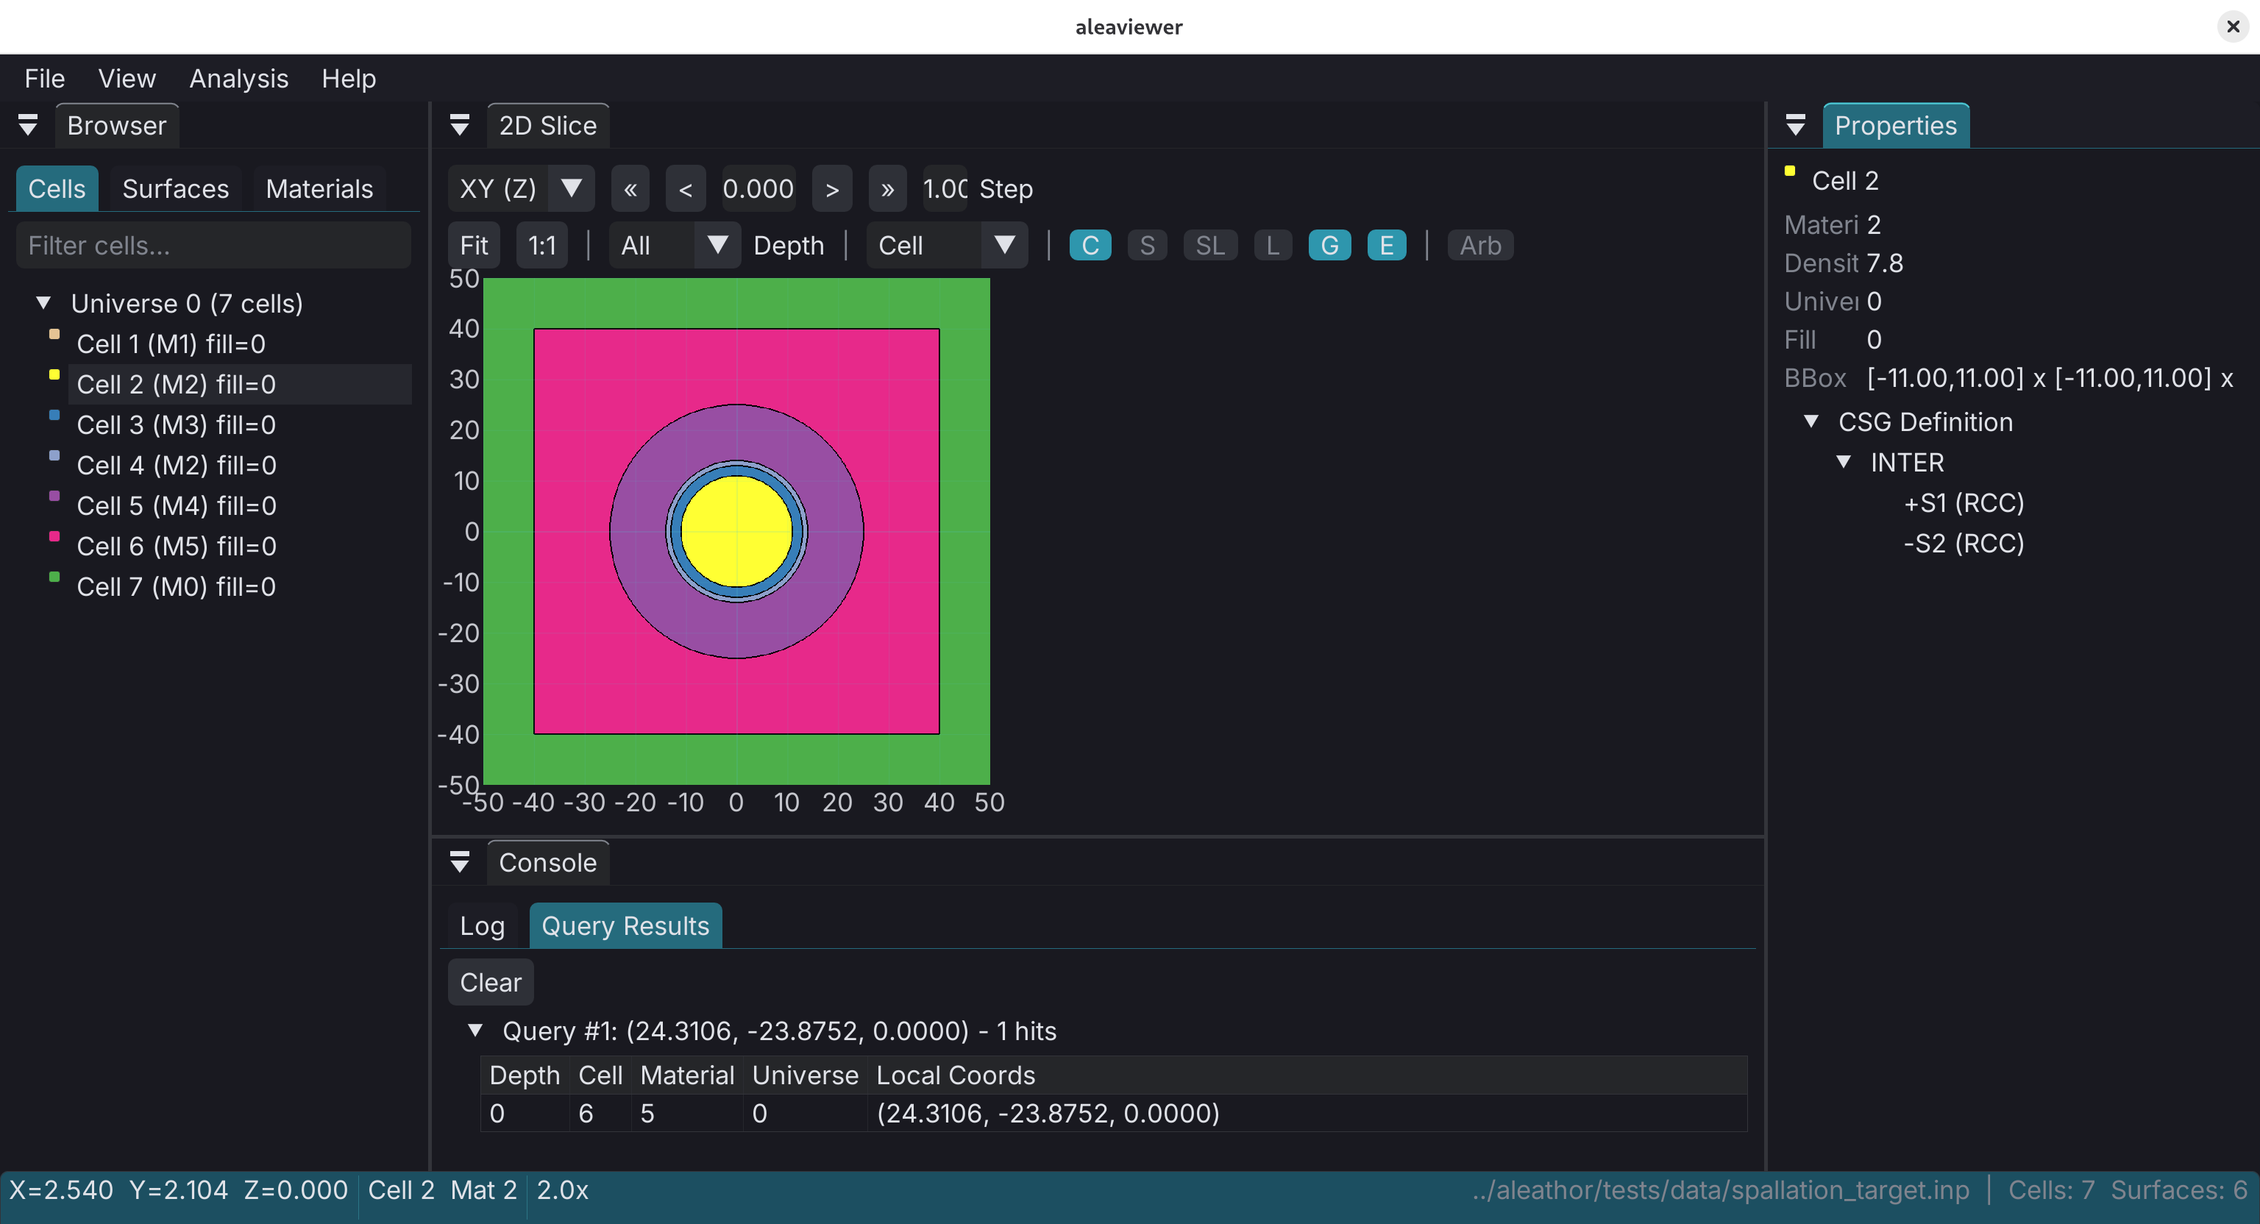
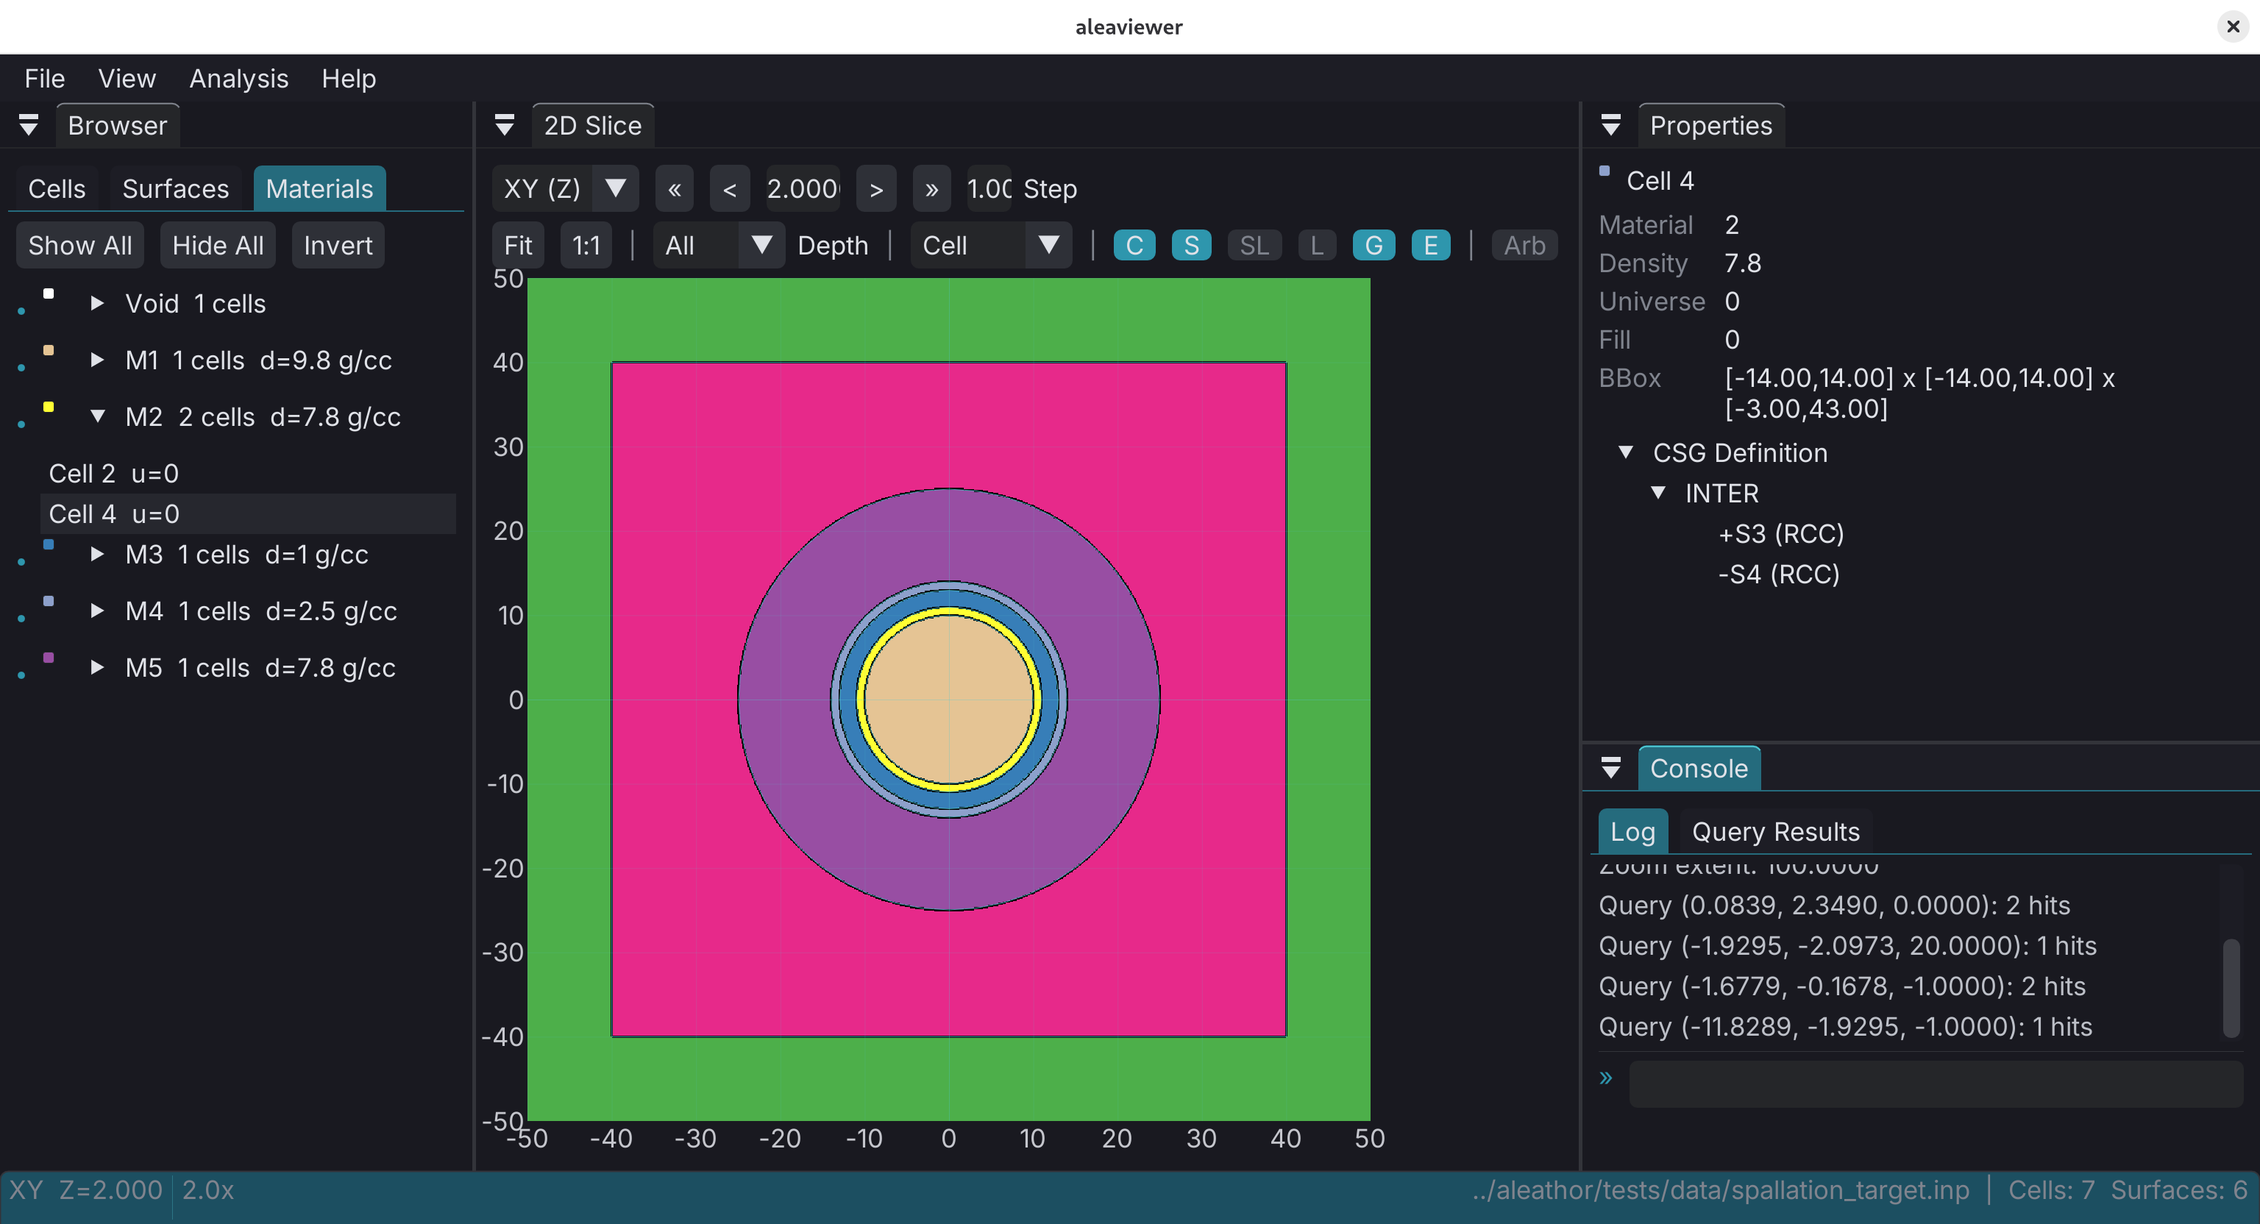
docking positions adjusted

diff --git a/src/panel_properties.cpp b/src/panel_properties.cpp
@@ -118,37 +118,38 @@ static void render_cell_properties(AppState& app) {
 
     // Properties table
     if (ImGui::BeginTable("##props", 2, ImGuiTableFlags_SizingFixedFit)) {
-        ImGui::TableSetupColumn("Key", ImGuiTableColumnFlags_WidthFixed, 90);
-        ImGui::TableSetupColumn("Val");
+        float key_w = ImGui::CalcTextSize("Material  ").x;
+        ImGui::TableSetupColumn("Key", ImGuiTableColumnFlags_WidthFixed, key_w);
+        ImGui::TableSetupColumn("Val", ImGuiTableColumnFlags_WidthStretch);
 
         ImGui::TableNextRow(); ImGui::TableNextColumn();
         ImGui::TextDisabled("Material"); ImGui::TableNextColumn();
-        ImGui::Text("%d", info.material_id);
+        ImGui::TextWrapped("%d", info.material_id);
 
         ImGui::TableNextRow(); ImGui::TableNextColumn();
         ImGui::TextDisabled("Density"); ImGui::TableNextColumn();
-        ImGui::Text("%.6g", info.density);
+        ImGui::TextWrapped("%.6g", info.density);
 
         ImGui::TableNextRow(); ImGui::TableNextColumn();
         ImGui::TextDisabled("Universe"); ImGui::TableNextColumn();
-        ImGui::Text("%d", info.universe_id);
+        ImGui::TextWrapped("%d", info.universe_id);
 
         if (info.fill_universe >= 0) {
             ImGui::TableNextRow(); ImGui::TableNextColumn();
             ImGui::TextDisabled("Fill"); ImGui::TableNextColumn();
-            ImGui::Text("%d", info.fill_universe);
+            ImGui::TextWrapped("%d", info.fill_universe);
         }
 
         if (info.lat_type > 0) {
             ImGui::TableNextRow(); ImGui::TableNextColumn();
             ImGui::TextDisabled("Lattice"); ImGui::TableNextColumn();
-            ImGui::Text("type=%d  pitch=[%.3f, %.3f, %.3f]",
+            ImGui::TextWrapped("type=%d  pitch=[%.3f, %.3f, %.3f]",
                         info.lat_type, info.lat_pitch[0], info.lat_pitch[1], info.lat_pitch[2]);
         }
 
         ImGui::TableNextRow(); ImGui::TableNextColumn();
         ImGui::TextDisabled("BBox"); ImGui::TableNextColumn();
-        ImGui::Text("[%.2f,%.2f] x [%.2f,%.2f] x [%.2f,%.2f]",
+        ImGui::TextWrapped("[%.2f,%.2f] x [%.2f,%.2f] x [%.2f,%.2f]",
                     info.bbox.min_x, info.bbox.max_x,
                     info.bbox.min_y, info.bbox.max_y,
                     info.bbox.min_z, info.bbox.max_z);
@@ -185,17 +186,18 @@ static void render_surface_properties(AppState& app) {
     ImGui::Text("Surface %d", sid);
 
     if (ImGui::BeginTable("##sprops", 2, ImGuiTableFlags_SizingFixedFit)) {
-        ImGui::TableSetupColumn("Key", ImGuiTableColumnFlags_WidthFixed, 90);
-        ImGui::TableSetupColumn("Val");
+        float key_w = ImGui::CalcTextSize("Material  ").x;
+        ImGui::TableSetupColumn("Key", ImGuiTableColumnFlags_WidthFixed, key_w);
+        ImGui::TableSetupColumn("Val", ImGuiTableColumnFlags_WidthStretch);
 
         ImGui::TableNextRow(); ImGui::TableNextColumn();
         ImGui::TextDisabled("Type"); ImGui::TableNextColumn();
-        ImGui::Text("%s", prim_type_name(ptype));
+        ImGui::TextWrapped("%s", prim_type_name(ptype));
 
         ImGui::TableNextRow(); ImGui::TableNextColumn();
         ImGui::TextDisabled("Boundary"); ImGui::TableNextColumn();
         const char* bnames[] = {"Transmissive", "Reflective", "White", "Periodic", "Vacuum"};
-        ImGui::Text("%s", bnames[btype < 5 ? btype : 0]);
+        ImGui::TextWrapped("%s", bnames[btype < 5 ? btype : 0]);
 
         // Show primitive data
         alea_primitive_data_t pdata;
@@ -204,73 +206,73 @@ static void render_surface_properties(AppState& app) {
                 case ALEA_PRIMITIVE_PLANE:
                     ImGui::TableNextRow(); ImGui::TableNextColumn();
                     ImGui::TextDisabled("Coeffs"); ImGui::TableNextColumn();
-                    ImGui::Text("%.6g %.6g %.6g %.6g",
+                    ImGui::TextWrapped("%.6g %.6g %.6g %.6g",
                                 pdata.plane.a, pdata.plane.b, pdata.plane.c, pdata.plane.d);
                     break;
                 case ALEA_PRIMITIVE_SPHERE:
                     ImGui::TableNextRow(); ImGui::TableNextColumn();
                     ImGui::TextDisabled("Center"); ImGui::TableNextColumn();
-                    ImGui::Text("(%.4g, %.4g, %.4g)",
+                    ImGui::TextWrapped("(%.4g, %.4g, %.4g)",
                                 pdata.sphere.center_x, pdata.sphere.center_y, pdata.sphere.center_z);
                     ImGui::TableNextRow(); ImGui::TableNextColumn();
                     ImGui::TextDisabled("Radius"); ImGui::TableNextColumn();
-                    ImGui::Text("%.6g", pdata.sphere.radius);
+                    ImGui::TextWrapped("%.6g", pdata.sphere.radius);
                     break;
                 case ALEA_PRIMITIVE_CYLINDER_Z:
                     ImGui::TableNextRow(); ImGui::TableNextColumn();
                     ImGui::TextDisabled("Center"); ImGui::TableNextColumn();
-                    ImGui::Text("(%.4g, %.4g)", pdata.cyl_z.center_x, pdata.cyl_z.center_y);
+                    ImGui::TextWrapped("(%.4g, %.4g)", pdata.cyl_z.center_x, pdata.cyl_z.center_y);
                     ImGui::TableNextRow(); ImGui::TableNextColumn();
                     ImGui::TextDisabled("Radius"); ImGui::TableNextColumn();
-                    ImGui::Text("%.6g", pdata.cyl_z.radius);
+                    ImGui::TextWrapped("%.6g", pdata.cyl_z.radius);
                     break;
                 case ALEA_PRIMITIVE_CYLINDER_X:
                     ImGui::TableNextRow(); ImGui::TableNextColumn();
                     ImGui::TextDisabled("Center"); ImGui::TableNextColumn();
-                    ImGui::Text("(%.4g, %.4g)", pdata.cyl_x.center_y, pdata.cyl_x.center_z);
+                    ImGui::TextWrapped("(%.4g, %.4g)", pdata.cyl_x.center_y, pdata.cyl_x.center_z);
                     ImGui::TableNextRow(); ImGui::TableNextColumn();
                     ImGui::TextDisabled("Radius"); ImGui::TableNextColumn();
-                    ImGui::Text("%.6g", pdata.cyl_x.radius);
+                    ImGui::TextWrapped("%.6g", pdata.cyl_x.radius);
                     break;
                 case ALEA_PRIMITIVE_CYLINDER_Y:
                     ImGui::TableNextRow(); ImGui::TableNextColumn();
                     ImGui::TextDisabled("Center"); ImGui::TableNextColumn();
-                    ImGui::Text("(%.4g, %.4g)", pdata.cyl_y.center_x, pdata.cyl_y.center_z);
+                    ImGui::TextWrapped("(%.4g, %.4g)", pdata.cyl_y.center_x, pdata.cyl_y.center_z);
                     ImGui::TableNextRow(); ImGui::TableNextColumn();
                     ImGui::TextDisabled("Radius"); ImGui::TableNextColumn();
-                    ImGui::Text("%.6g", pdata.cyl_y.radius);
+                    ImGui::TextWrapped("%.6g", pdata.cyl_y.radius);
                     break;
                 case ALEA_PRIMITIVE_CONE_X:
                     ImGui::TableNextRow(); ImGui::TableNextColumn();
                     ImGui::TextDisabled("Apex"); ImGui::TableNextColumn();
-                    ImGui::Text("(%.4g, %.4g, %.4g)", pdata.cone_x.apex_x,
+                    ImGui::TextWrapped("(%.4g, %.4g, %.4g)", pdata.cone_x.apex_x,
                                 pdata.cone_x.apex_y, pdata.cone_x.apex_z);
                     ImGui::TableNextRow(); ImGui::TableNextColumn();
                     ImGui::TextDisabled("tan^2"); ImGui::TableNextColumn();
-                    ImGui::Text("%.6g", pdata.cone_x.tan_angle_sq);
+                    ImGui::TextWrapped("%.6g", pdata.cone_x.tan_angle_sq);
                     break;
                 case ALEA_PRIMITIVE_CONE_Y:
                     ImGui::TableNextRow(); ImGui::TableNextColumn();
                     ImGui::TextDisabled("Apex"); ImGui::TableNextColumn();
-                    ImGui::Text("(%.4g, %.4g, %.4g)", pdata.cone_y.apex_x,
+                    ImGui::TextWrapped("(%.4g, %.4g, %.4g)", pdata.cone_y.apex_x,
                                 pdata.cone_y.apex_y, pdata.cone_y.apex_z);
                     ImGui::TableNextRow(); ImGui::TableNextColumn();
                     ImGui::TextDisabled("tan^2"); ImGui::TableNextColumn();
-                    ImGui::Text("%.6g", pdata.cone_y.tan_angle_sq);
+                    ImGui::TextWrapped("%.6g", pdata.cone_y.tan_angle_sq);
                     break;
                 case ALEA_PRIMITIVE_CONE_Z:
                     ImGui::TableNextRow(); ImGui::TableNextColumn();
                     ImGui::TextDisabled("Apex"); ImGui::TableNextColumn();
-                    ImGui::Text("(%.4g, %.4g, %.4g)", pdata.cone_z.apex_x,
+                    ImGui::TextWrapped("(%.4g, %.4g, %.4g)", pdata.cone_z.apex_x,
                                 pdata.cone_z.apex_y, pdata.cone_z.apex_z);
                     ImGui::TableNextRow(); ImGui::TableNextColumn();
                     ImGui::TextDisabled("tan^2"); ImGui::TableNextColumn();
-                    ImGui::Text("%.6g", pdata.cone_z.tan_angle_sq);
+                    ImGui::TextWrapped("%.6g", pdata.cone_z.tan_angle_sq);
                     break;
                 case ALEA_PRIMITIVE_RPP:
                     ImGui::TableNextRow(); ImGui::TableNextColumn();
                     ImGui::TextDisabled("Extents"); ImGui::TableNextColumn();
-                    ImGui::Text("[%.4g,%.4g] x [%.4g,%.4g] x [%.4g,%.4g]",
+                    ImGui::TextWrapped("[%.4g,%.4g] x [%.4g,%.4g] x [%.4g,%.4g]",
                                 pdata.box.min_x, pdata.box.max_x,
                                 pdata.box.min_y, pdata.box.max_y,
                                 pdata.box.min_z, pdata.box.max_z);
@@ -278,15 +280,15 @@ static void render_surface_properties(AppState& app) {
                 case ALEA_PRIMITIVE_QUADRIC:
                     ImGui::TableNextRow(); ImGui::TableNextColumn();
                     ImGui::TextDisabled("Coeffs"); ImGui::TableNextColumn();
-                    ImGui::Text("A=%.6g B=%.6g C=%.6g",
+                    ImGui::TextWrapped("A=%.6g B=%.6g C=%.6g",
                                 pdata.quadric.coeffs[0], pdata.quadric.coeffs[1], pdata.quadric.coeffs[2]);
                     ImGui::TableNextRow(); ImGui::TableNextColumn();
                     ImGui::TableNextColumn();
-                    ImGui::Text("D=%.6g E=%.6g F=%.6g",
+                    ImGui::TextWrapped("D=%.6g E=%.6g F=%.6g",
                                 pdata.quadric.coeffs[3], pdata.quadric.coeffs[4], pdata.quadric.coeffs[5]);
                     ImGui::TableNextRow(); ImGui::TableNextColumn();
                     ImGui::TableNextColumn();
-                    ImGui::Text("G=%.6g H=%.6g I=%.6g J=%.6g",
+                    ImGui::TextWrapped("G=%.6g H=%.6g I=%.6g J=%.6g",
                                 pdata.quadric.coeffs[6], pdata.quadric.coeffs[7],
                                 pdata.quadric.coeffs[8], pdata.quadric.coeffs[9]);
                     break;
@@ -295,25 +297,25 @@ static void render_surface_properties(AppState& app) {
                 case ALEA_PRIMITIVE_TORUS_Z:
                     ImGui::TableNextRow(); ImGui::TableNextColumn();
                     ImGui::TextDisabled("Center"); ImGui::TableNextColumn();
-                    ImGui::Text("(%.4g, %.4g, %.4g)",
+                    ImGui::TextWrapped("(%.4g, %.4g, %.4g)",
                                 pdata.torus.center_x, pdata.torus.center_y, pdata.torus.center_z);
                     ImGui::TableNextRow(); ImGui::TableNextColumn();
                     ImGui::TextDisabled("Radii"); ImGui::TableNextColumn();
-                    ImGui::Text("R=%.6g r=%.6g B=%.6g",
+                    ImGui::TextWrapped("R=%.6g r=%.6g B=%.6g",
                                 pdata.torus.major_radius, pdata.torus.minor_radius, pdata.torus.axial_semiwidth_B);
                     break;
                 case ALEA_PRIMITIVE_RCC:
                     ImGui::TableNextRow(); ImGui::TableNextColumn();
                     ImGui::TextDisabled("Base"); ImGui::TableNextColumn();
-                    ImGui::Text("(%.4g, %.4g, %.4g)",
+                    ImGui::TextWrapped("(%.4g, %.4g, %.4g)",
                                 pdata.rcc.base_x, pdata.rcc.base_y, pdata.rcc.base_z);
                     ImGui::TableNextRow(); ImGui::TableNextColumn();
                     ImGui::TextDisabled("Height"); ImGui::TableNextColumn();
-                    ImGui::Text("(%.4g, %.4g, %.4g)",
+                    ImGui::TextWrapped("(%.4g, %.4g, %.4g)",
                                 pdata.rcc.height_x, pdata.rcc.height_y, pdata.rcc.height_z);
                     ImGui::TableNextRow(); ImGui::TableNextColumn();
                     ImGui::TextDisabled("Radius"); ImGui::TableNextColumn();
-                    ImGui::Text("%.6g", pdata.rcc.radius);
+                    ImGui::TextWrapped("%.6g", pdata.rcc.radius);
                     break;
                 default:
                     break;

diff --git a/src/main.cpp b/src/main.cpp
@@ -517,6 +517,7 @@ int main(int argc, char* argv[]) {
 
     // Main loop
     bool quit = false;
+    int frames_until_maximize = 3;  // Wayland needs window mapped before maximize; dock layout waits for this
     while (!quit) {
         SDL_Event event;
         while (SDL_PollEvent(&event)) {
@@ -571,19 +572,19 @@ int main(int argc, char* argv[]) {
 
         ImGuiID dockspace_id = ImGui::GetID("MainDockSpace");
 
-        if (app.first_frame) {
+        if (app.first_frame && frames_until_maximize <= 0) {
             ImGui::DockBuilderRemoveNode(dockspace_id);
             ImGui::DockBuilderAddNode(dockspace_id, ImGuiDockNodeFlags_DockSpace);
             ImGui::DockBuilderSetNodeSize(dockspace_id, viewport->WorkSize);
 
             ImGuiID dock_main = dockspace_id;
-            ImGuiID dock_right = ImGui::DockBuilderSplitNode(dock_main, ImGuiDir_Right, 0.22f, nullptr, &dock_main);
-            ImGuiID dock_left = ImGui::DockBuilderSplitNode(dock_main, ImGuiDir_Left, 0.22f, nullptr, &dock_main);
-            ImGuiID dock_bottom = ImGui::DockBuilderSplitNode(dock_main, ImGuiDir_Down, 0.45f, nullptr, &dock_main);
+            ImGuiID dock_right = ImGui::DockBuilderSplitNode(dock_main, ImGuiDir_Right, 0.30f, nullptr, &dock_main);
+            ImGuiID dock_left = ImGui::DockBuilderSplitNode(dock_main, ImGuiDir_Left, 0.30f, nullptr, &dock_main);
+            ImGuiID dock_right_bottom = ImGui::DockBuilderSplitNode(dock_right, ImGuiDir_Down, 0.40f, nullptr, &dock_right);
             ImGui::DockBuilderDockWindow("2D Slice", dock_main);
             ImGui::DockBuilderDockWindow("Browser", dock_left);
             ImGui::DockBuilderDockWindow("Properties", dock_right);
-            ImGui::DockBuilderDockWindow("Console", dock_bottom);
+            ImGui::DockBuilderDockWindow("Console", dock_right_bottom);
 
             ImGui::DockBuilderFinish(dockspace_id);
             app.first_frame = false;
@@ -655,6 +656,11 @@ int main(int argc, char* argv[]) {
         glClear(GL_COLOR_BUFFER_BIT);
         ImGui_ImplOpenGL3_RenderDrawData(ImGui::GetDrawData());
         SDL_GL_SwapWindow(window);
+
+        // Wayland: maximize after window is mapped and visible
+        if (frames_until_maximize > 0 && --frames_until_maximize == 0) {
+            SDL_MaximizeWindow(window);
+        }
     }
 
     // Cleanup

diff --git a/src/panel_slice.cpp b/src/panel_slice.cpp
@@ -473,16 +473,25 @@ void panel_slice(AppState& app) {
             { app.show_contours = !app.show_contours; app.needs_recolor = true; }
         ImGui::SameLine();
 
-        if (toggle_button("S", app.show_curves, "Surface curves (analytical)"))
-            { app.show_curves = !app.show_curves; }
+        if (toggle_button("S", app.show_curves, "Surface curves (analytical)")) {
+            app.show_curves = !app.show_curves;
+            if (app.show_curves && app.slice_curves.empty())
+                app_request_rerender(app);
+        }
         ImGui::SameLine();
 
-        if (toggle_button("SL", app.show_surface_labels, "Surface labels"))
-            { app.show_surface_labels = !app.show_surface_labels; }
+        if (toggle_button("SL", app.show_surface_labels, "Surface labels")) {
+            app.show_surface_labels = !app.show_surface_labels;
+            if (app.show_surface_labels && app.slice_surface_labels.empty())
+                app_request_rerender(app);
+        }
         ImGui::SameLine();
 
-        if (toggle_button("L", app.show_labels, "Labels"))
-            { app.show_labels = !app.show_labels; }
+        if (toggle_button("L", app.show_labels, "Labels")) {
+            app.show_labels = !app.show_labels;
+            if (app.show_labels && app.slice_labels.empty())
+                app_request_rerender(app);
+        }
         ImGui::SameLine();
 
         if (toggle_button("G", app.show_grid, "Grid"))

diff --git a/src/panel_cli.cpp b/src/panel_cli.cpp
@@ -45,9 +45,9 @@ static int input_callback(ImGuiInputTextCallbackData* data) {
 static void tab_log(AppState& app) {
     // Log area (scrollable)
     float input_height = ImGui::GetFrameHeightWithSpacing() * 2.0f;
-    ImGui::BeginChild("LogRegion", ImVec2(0, -input_height), ImGuiChildFlags_None,
-                      ImGuiWindowFlags_HorizontalScrollbar);
+    ImGui::BeginChild("LogRegion", ImVec2(0, -input_height), ImGuiChildFlags_None);
 
+    ImGui::PushTextWrapPos(0.0f);  // Wrap at window edge
     for (auto& line : app.log_lines) {
         if (line.size() > 7 && line.substr(0, 7) == "[ERROR]") {
             ImGui::PushStyleColor(ImGuiCol_Text, ImVec4(1.0f, 0.400f, 0.380f, 1.0f));  // #FF6661
@@ -63,6 +63,7 @@ static void tab_log(AppState& app) {
             ImGui::PopStyleColor();
         }
     }
+    ImGui::PopTextWrapPos();
 
     if (app.scroll_to_bottom) {
         ImGui::SetScrollHereY(1.0f);
